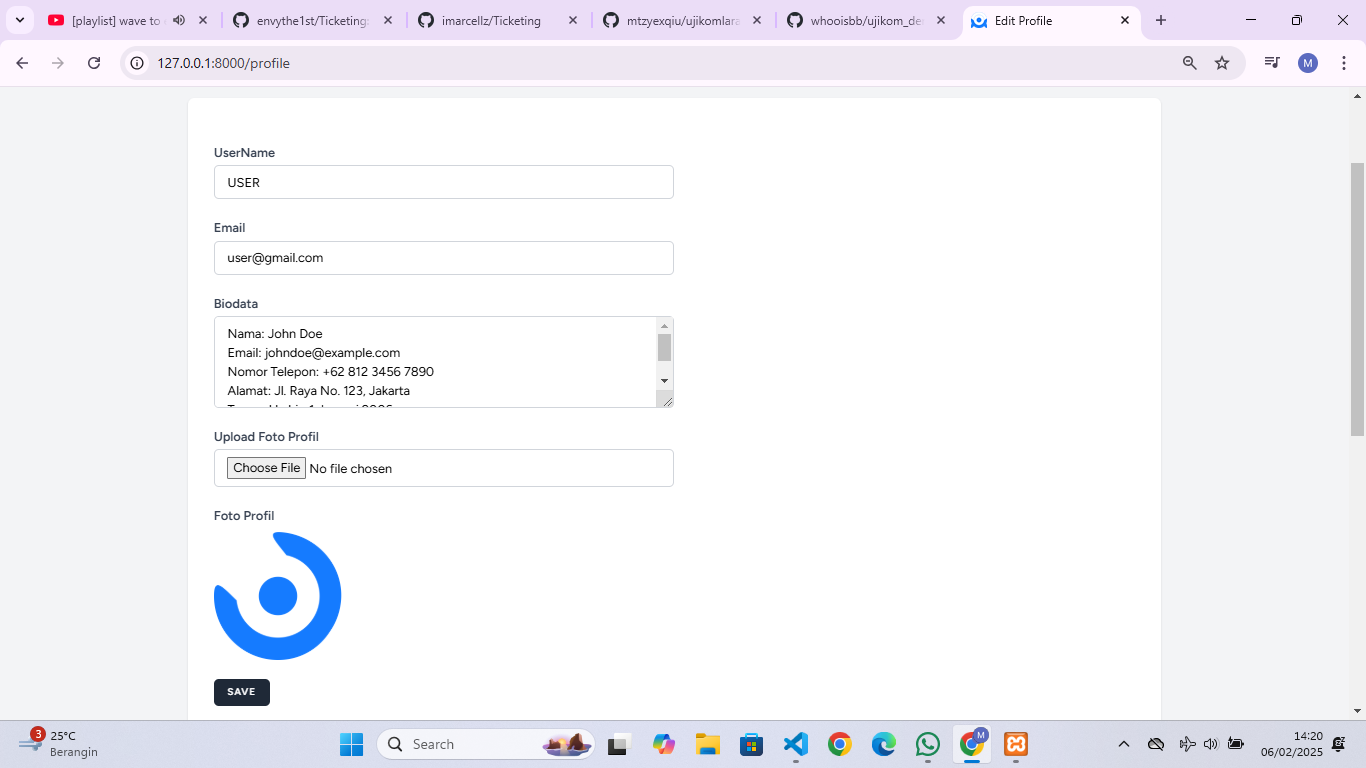
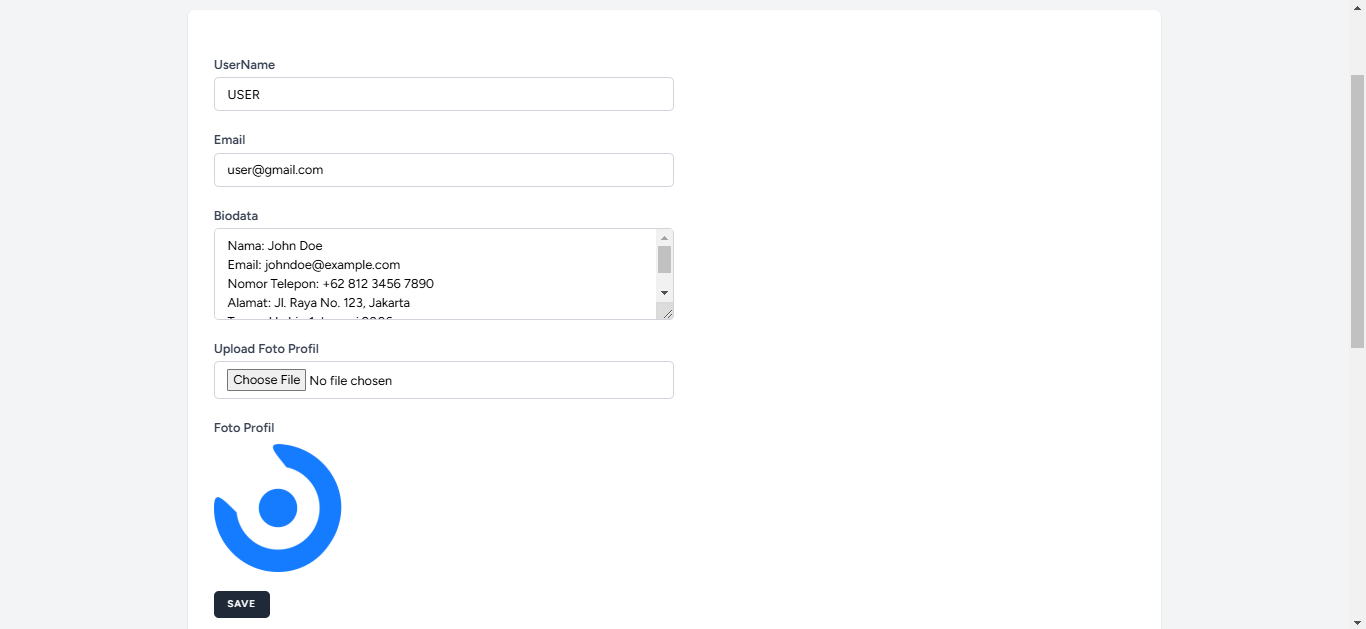
matius|060225| UPDATE README

diff --git a/README.md b/README.md
@@ -113,10 +113,12 @@ Ini adalah project ujikom berbasis Laravel yang mencakup berbagai fitur seperti 
 ## Account Access ( USER & ADMIN ) :
 - ADMIN :
 > Email Account : admin@gmail.com
+-----------------------------------------------------------------------------------------------------------------------
 > Password      : bukasandi
 
 - USER :
 > Email Account : user@gmail.com
+-----------------------------------------------------------------------------------------------------------------------
 > Password      : bukasandi
 
 -----------------------------------------------------------------------------------------------------------------------
